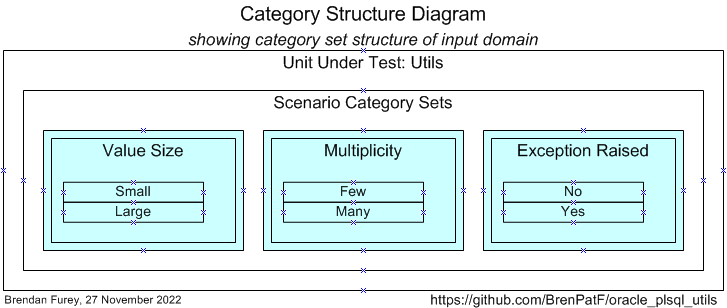
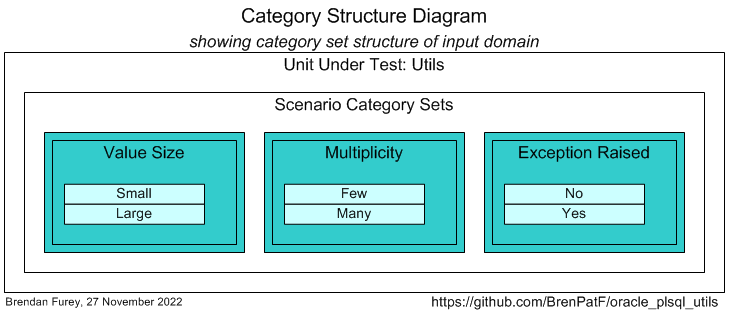
Added link to blog "The Math Function Unit Testing Design Pattern"
Made diagram colours consistent with the blog.

diff --git a/README.md b/README.md
@@ -16,7 +16,7 @@ This module is a prerequisite for these other Oracle GitHub modules:
 - [Log_Set - Oracle logging module](https://github.com/BrenPatF/log_set_oracle)
 - [Timer_Set - Oracle PL/SQL code timing module](https://github.com/BrenPatF/timer_set_oracle)
 
-The package is tested using the Math Function Unit Testing design pattern, with test results in HTML and text format included.
+The package is tested using [The Math Function Unit Testing Design Pattern](https://brenpatf.github.io/2023/06/05/the-math-function-unit-testing-design-pattern.html), with test results in HTML and text format included.
 
 The module also comes with examples of usage.
 
@@ -487,17 +487,17 @@ Test-FormatDB($unpw, $conn, $utGroup, $testRoot)
 [&darr; Step 2: Create Results Object](#step-2-create-results-object)<br />
 [&darr; Step 3: Format Results](#step-3-format-results)<br />
 
-The package is tested using the Math Function Unit Testing design pattern, described here: [Trapit - Oracle PL/SQL Unit Testing Module](https://github.com/BrenPatF/trapit_oracle_tester). In this approach, a 'pure' wrapper function is constructed that takes input parameters and returns a value, and is tested within a loop over scenario records read from a JSON file.
+The package is tested using [The Math Function Unit Testing Design Pattern](https://brenpatf.github.io/2023/06/05/the-math-function-unit-testing-design-pattern.html) (general overview), described in its Oracle version here: [Trapit - Oracle PL/SQL Unit Testing Module](https://github.com/BrenPatF/trapit_oracle_tester). In this approach, a 'pure' wrapper function is constructed that takes input parameters and returns a value, and is tested within a loop over scenario records read from a JSON file.
 
 In this case, where we have a set of small independent procedures and functions, the wrapper function is designed to test all of them in a single generalised transaction (per scenario).
 
-At a high level the Math Function Unit Testing design pattern involves three main steps:
+At a high level [The Math Function Unit Testing Design Pattern](https://brenpatf.github.io/2023/06/05/the-math-function-unit-testing-design-pattern.html) involves three main steps:
 
 1. Create an input file containing all test scenarios with input data and expected output data for each scenario
 2. Create a results object based on the input file, but with actual outputs merged in
 3. Use the results object to generate unit test results files formatted in HTML and/or text
 
-<img src="png/Math Function UT DP - HL Flow.png">
+<img src="png/HLS.png">
 
 #### Step 1: Create JSON File
 [&uarr; Unit Testing](#unit-testing)<br />
@@ -782,6 +782,7 @@ There are six subfolders below the trapit root folder:
 - [Oracle Instant Client Downloads for Microsoft Windows (x64) 64-bit](https://www.oracle.com/ie/database/technologies/instant-client/winx64-64-downloads.html)
 - [Node.js Downloads](https://nodejs.org/en/download)
 - [Installing Windows PowerShell](https://learn.microsoft.com/en-us/powershell/scripting/windows-powershell/install/installing-windows-powershell)
+- [The Math Function Unit Testing Design Pattern](https://brenpatf.github.io/2023/06/05/the-math-function-unit-testing-design-pattern.html)
 - [Trapit - Oracle PL/SQL Unit Testing Module](https://github.com/BrenPatF/trapit_oracle_tester)
 - [Trapit - JavaScript Unit Tester/Formatter](https://github.com/BrenPatF/trapit_nodejs_tester)
 - [Powershell Utilities Module](https://github.com/BrenPatF/powershell_utils)
